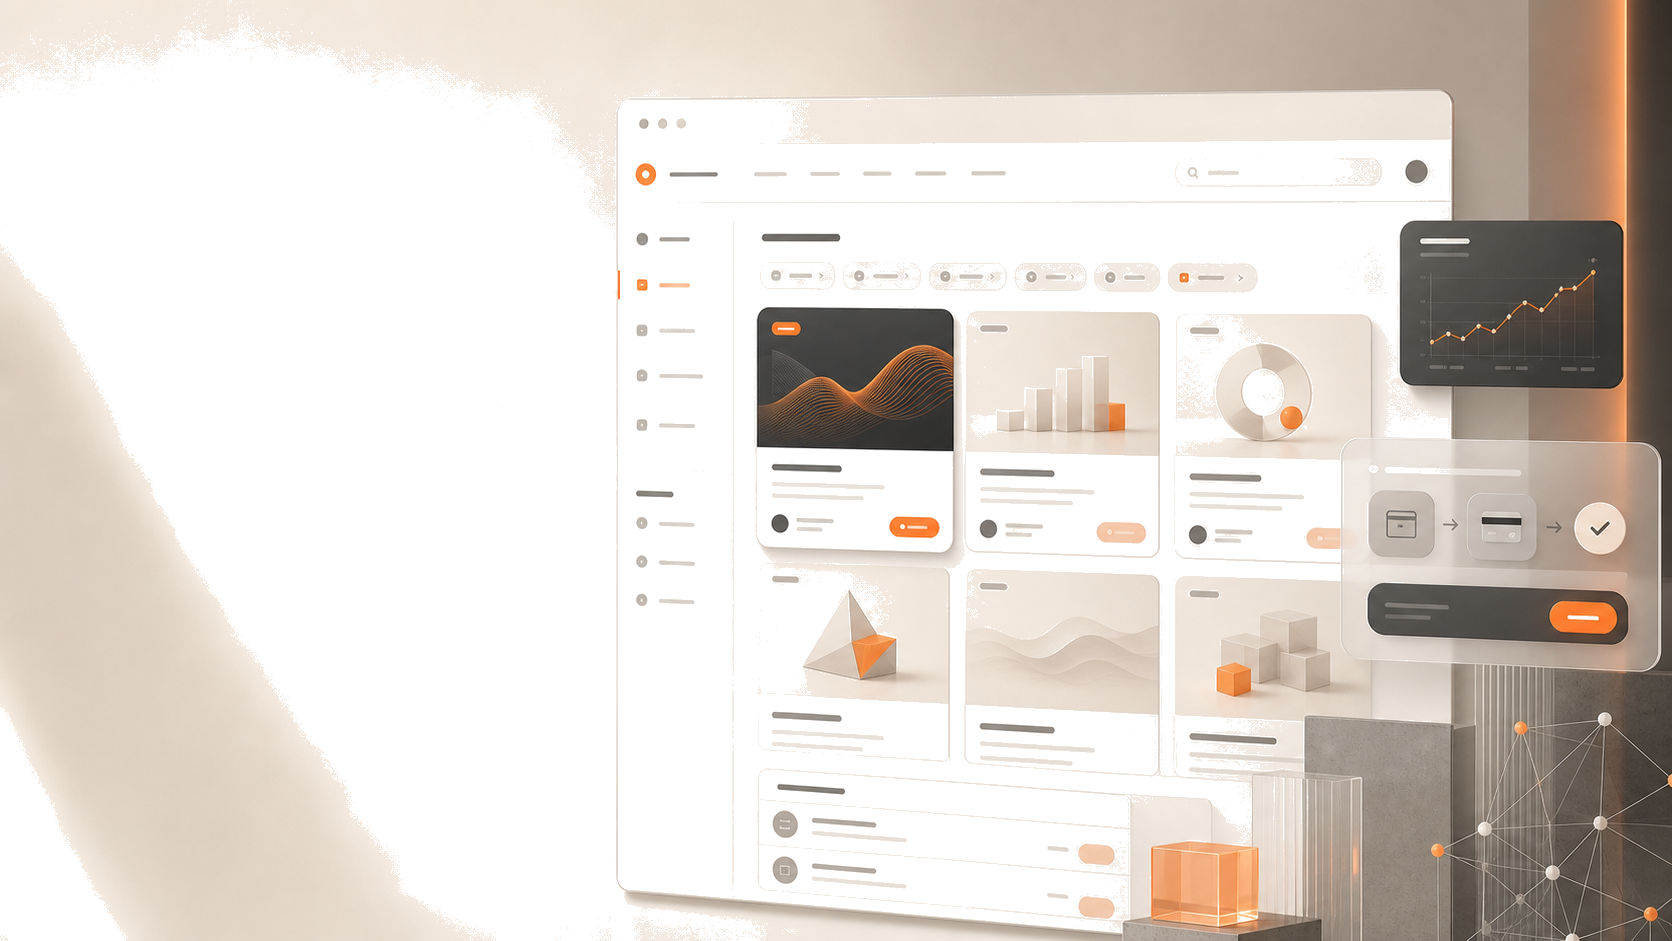
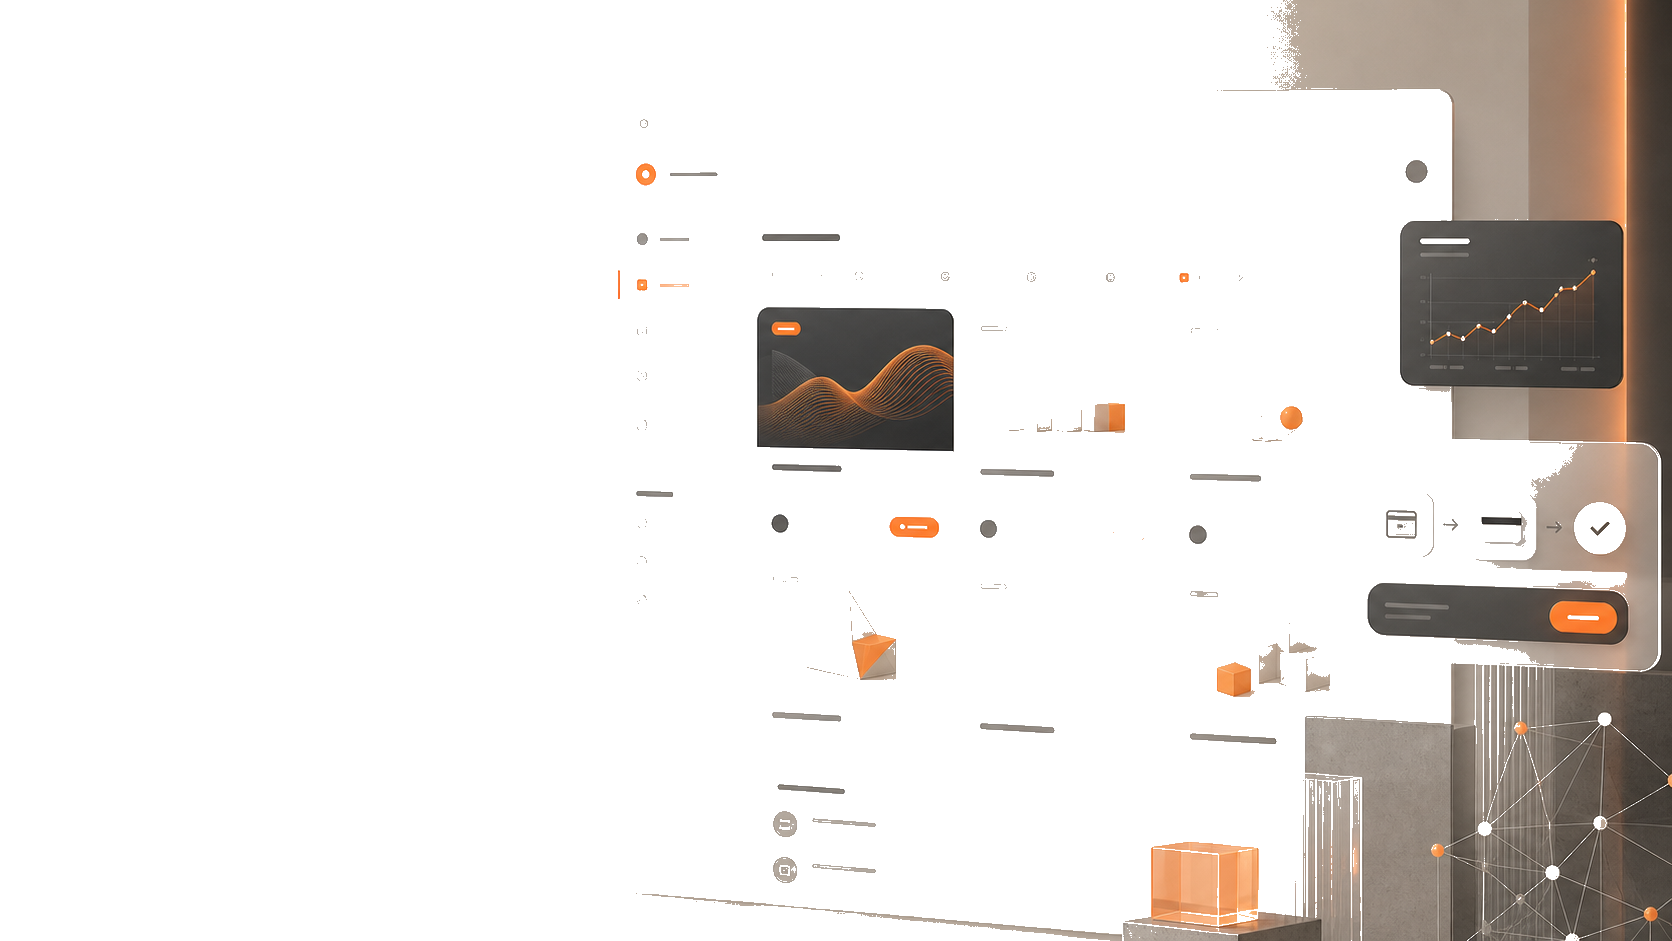
fix: tighten kikai deck background whites

diff --git a/deck-system/decks/kikai-collab-seminar-business-ppt-bold/figma-import.html b/deck-system/decks/kikai-collab-seminar-business-ppt-bold/figma-import.html
@@ -3672,6 +3672,8 @@
       .slide::before,
       .cover::before {
         background: #ff7143 !important;
+        background-color: var(--kikai-logo-orange) !important;
+        background-image: none !important;
       }
       .slide::after {
         content: none;
@@ -3823,6 +3825,13 @@
       #P08 .table-wrap th,
       #P08 .table-wrap td {
         vertical-align: middle;
+      }
+      #P06 .gain-bars span {
+        background: linear-gradient(90deg, var(--kikai-logo-orange) 0 var(--w), #ffffff var(--w) 100%) !important;
+        color: var(--kbp-ink);
+      }
+      #P06 .gain-bars.muted span {
+        background: linear-gradient(90deg, rgba(255, 113, 67, 0.34) 0 var(--w), #ffffff var(--w) 100%) !important;
       }
       .pill,
       .path-label,

diff --git a/deck-system/decks/kikai-collab-seminar-business-ppt-bold/index.html b/deck-system/decks/kikai-collab-seminar-business-ppt-bold/index.html
@@ -3672,6 +3672,8 @@
       .slide::before,
       .cover::before {
         background: #ff7143 !important;
+        background-color: var(--kikai-logo-orange) !important;
+        background-image: none !important;
       }
       .slide::after {
         content: none;
@@ -3823,6 +3825,13 @@
       #P08 .table-wrap th,
       #P08 .table-wrap td {
         vertical-align: middle;
+      }
+      #P06 .gain-bars span {
+        background: linear-gradient(90deg, var(--kikai-logo-orange) 0 var(--w), #ffffff var(--w) 100%) !important;
+        color: var(--kbp-ink);
+      }
+      #P06 .gain-bars.muted span {
+        background: linear-gradient(90deg, rgba(255, 113, 67, 0.34) 0 var(--w), #ffffff var(--w) 100%) !important;
       }
       .pill,
       .path-label,
